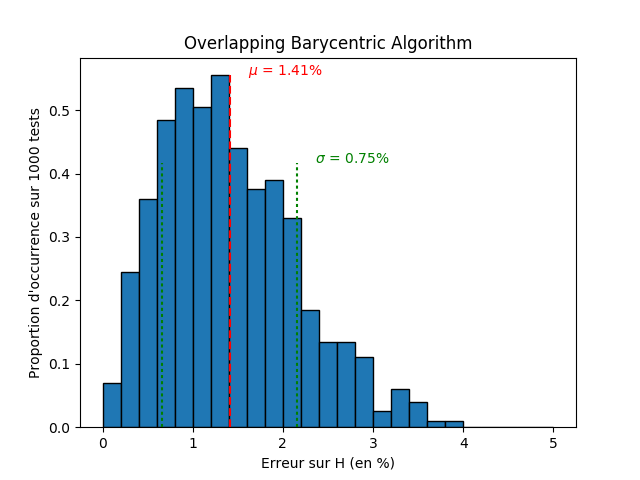
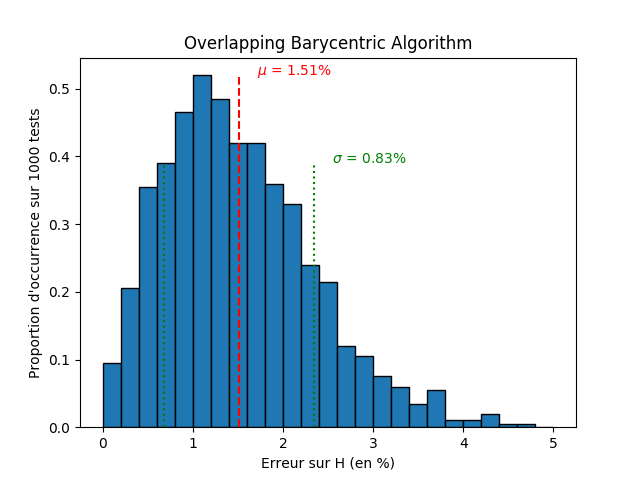
tripleHistos

diff --git a/clustering.py b/clustering.py
@@ -1,6 +1,7 @@
 # -*- coding: utf-8 -*-
 
 from scipy.cluster import *
+from analyse import *
 from random import random
 # https://docs.scipy.org/doc/scipy/reference/cluster.html
 from oba import *
@@ -17,7 +18,7 @@ def verbosity(verbose, error, err_threshold, R, theta, R2, theta2):	# O(1)
 def obaTest(nbPoints, snr, precision=32, verbose="auto", display="auto", clusteringThreshold=0.1):	# O(nbPoints)
 	(R, theta, set) = GenerationCarre2(nbPoints,snr)	# O(nbPoints)
 	clusters, centroides, phi, deviationAngle = oba(set, precision, 1, clusteringThreshold)	# O(nbPoints + precision^2)
-	R2, theta2, square = correction(centroides)	# O(1)
+	R2, theta2, square = correction2bits(centroides)	# O(1)
 	error = min([100*abs(rect(R2, theta2+pi/2*k)-rect(R, theta))/R for k in range(4)])
 
 	verbosity(verbose, error, 5, R, theta, R2, theta2)	# O(1)
@@ -36,6 +37,7 @@ def obaTest(nbPoints, snr, precision=32, verbose="auto", display="auto", cluster
 		for i in range(4):
 			plt.plot([square[i].real, square[(i+1)%4].real], [square[i].imag, square[(i+1)%4].imag], color="yellow", ls="--")
 
+		plt.savefig("images/oba"+str(nbPoints)+"_"+str(snr)+".png")
 		plt.show()
 
 	return error
@@ -45,7 +47,7 @@ def histogramOba(nbTests, dispIntervals, clusteringThreshold=0.1):
 	for i in range(1, nbTests+1):
 		if(i%dispIntervals==0):
 			print("Test numéro "+str(i)+" sur "+str(nbTests)+"\n")
-		Data.append(obaTest(500, 0.5, 128, "auto", False, clusteringThreshold))
+		Data.append(obaTest(500, 8, 128, "auto", False, clusteringThreshold))
 
 	eff, val, patches = plt.hist(Data, range = (0, 5), bins = 25, edgecolor = 'black', normed=True)
 	plt.xlabel("Erreur sur H (en %)")
@@ -64,7 +66,8 @@ def histogramOba(nbTests, dispIntervals, clusteringThreshold=0.1):
 	plt.annotate(r'$\sigma$ = '+str(round(sigma, 2))+'%', xy=(mu+sigma, l*3/4), xytext=(mu+sigma+0.2, l*3/4), color="green")
 
 	plt.savefig("images/histogramOba"+str(nbTests)+"_"+str(clusteringThreshold)+".png")
-	plt.show()
+	# plt.show()
+	return mu, sigma
 
 def odaTest(nbPoints, snr, precision=64, verbose="auto", display="auto", clusteringThreshold=0.1):
 	(R, theta, set) = GenerationCarre2(nbPoints, snr)
@@ -82,6 +85,8 @@ def odaTest(nbPoints, snr, precision=64, verbose="auto", display="auto", cluster
 			plt.plot([0, 1.5*(z/z0).real], [0, 1.5*(z/z0).imag], color="black", ls=":")
 		for i in range(4):
 			plt.plot([square[i].real, square[(i+1)%4].real], [square[i].imag, square[(i+1)%4].imag], color="red", ls="--")
+
+		plt.savefig("images/oda"+str(nbPoints)+"_"+str(snr)+".png")
 		plt.show()
 
 	return error
@@ -110,9 +115,11 @@ def histogramOda(nbTests, dispIntervals, clusteringThreshold=0.1):
 	plt.annotate(r'$\sigma$ = '+str(round(sigma, 2))+'%', xy=(mu+sigma, l*3/4), xytext=(mu+sigma+0.2, l*3/4), color="green")
 
 	plt.savefig("images/histogramOda"+str(nbTests)+"_"+str(clusteringThreshold)+".png")
-	plt.show()
+	# plt.show()
 
-def bhaTest2bits(nbPoints, snr, verbose="auto", display="auto", imageName="bha"):	# O(nbPoints^3 ln(nbPoints))
+	return mu, sigma
+
+def bhaTest2bits(nbPoints, snr, verbose="auto", display="auto", imageName="bha2bits"):	# O(nbPoints^3 ln(nbPoints))
 	(R, theta, set) = GenerationCarre2(nbPoints,snr)	# O(nbPoints)
 	graphics(set, "blue")
 
@@ -128,28 +135,29 @@ def bhaTest2bits(nbPoints, snr, verbose="auto", display="auto", imageName="bha")
 		graphics(square, "yellow", 0.5)
 		for i in range(4):
 			plt.plot([square[i].real, square[(i+1)%4].real], [square[i].imag, square[(i+1)%4].imag], color="yellow", ls="--")
-		plt.savefig("images/2bits_"+imageName)
+
+		plt.savefig("images/"+imageName+str(nbPoints)+"_"+str(snr)+".png")
 		plt.show()
 
 	return error
 
-def bhaTest4bits(nbPoints, snr, verbose="auto", display="auto", imageName="bha"):	# O(nbPoints^3 ln(nbPoints))
+def bhaTest4bits(nbPoints, snr, verbose="auto", display="auto", imageName="bha4bits"):	# O(nbPoints^3 ln(nbPoints))
 	(R, theta, set) = Generation4bits2(nbPoints,snr)	# O(nbPoints)
 
 	centroides = bha(set, 16)	# O(nbPoints^3 ln(nbPoints))
-	R2, theta2, square = correction4bits(centroides)	O(1)
+	R2, theta2, square = correction4bits(centroides)	# O(1)
 	error = min([100*abs(rect(R2, theta2+pi/2*k)-rect(R, theta))/R for k in range(4)])
 
 	verbosity(verbose, error, 5, R, theta, R2, theta2)	# O(1)
 
-	if display==True or (display=="auto" and error >= 5):	O(nbPoints)
+	if display==True or (display=="auto" and error >= 5):	# O(nbPoints)
 		graphics(set, "blue")
 		graphics(centroides, "red")
 		graphics(square, "yellow", 0.5)
 		for i in range(4):
 			plt.plot([square[4*i].real, square[4*i+3].real], [square[4*i].imag, square[4*i+3].imag], color="yellow", ls="--")
 			plt.plot([square[i].real, square[i+12].real], [square[i].imag, square[i+12].imag], color="yellow", ls="--")
-		plt.savefig("images/4bits_"+imageName)
+		plt.savefig("images/"+imageName+str(nbPoints)+"_"+str(snr)+".png")
 		plt.show()
 
 	return error
@@ -180,9 +188,26 @@ def histogramBha4bits(nbTests, dispIntervals, nbPoints):
 	plt.savefig("images/histogramBha"+str(nbTests)+"_"+str(nbPoints)+".png")
 	plt.show()
 
+	return mu, sigma
+
 def Test(nbTests, dispIntervals, nbPoints, algo, lendata, geometrie, nomHisto, nomAlgo):
 	pass
 
-# obaTest(500, 20, 128, True, True)
-histogramBha4bits(100, 5, 500)
-# bhaTest4bits(500, 20, True, True, "bha0")
+# obaTest(500, 10, 128, True, True)
+# odaTest(500, 10, 128, True, True)
+# bhaTest2bits(500, 10, 128, True)
+# bhaTest4bits(500, 20, 128, True)
+
+def tripleHistoH(nbTests, nbPoints listSnr, nomAlgo, intervalHist=(0, 5)):
+	n = len(listSnr)
+
+	for k in listSnr
+		plt.subplot(n,1,k+1)
+		histogram_erreur_relative(1000,50,viterbi_test,1000,listSnr[k], nomAlgo,intervalAlgo)
+
+	plt.title("Viterbi algorithm")
+	plt.ylabel("Densité d'occurrence sur {} tests de {} points".format(nbTests, nbPoints))
+	plt.xlabel("Erreur sur H (%)")
+
+	savefig("images/tripleHisto_{}_{}_{}.png".format(nomAlgo, nbTests, nbPoints))
+	plt.show()
